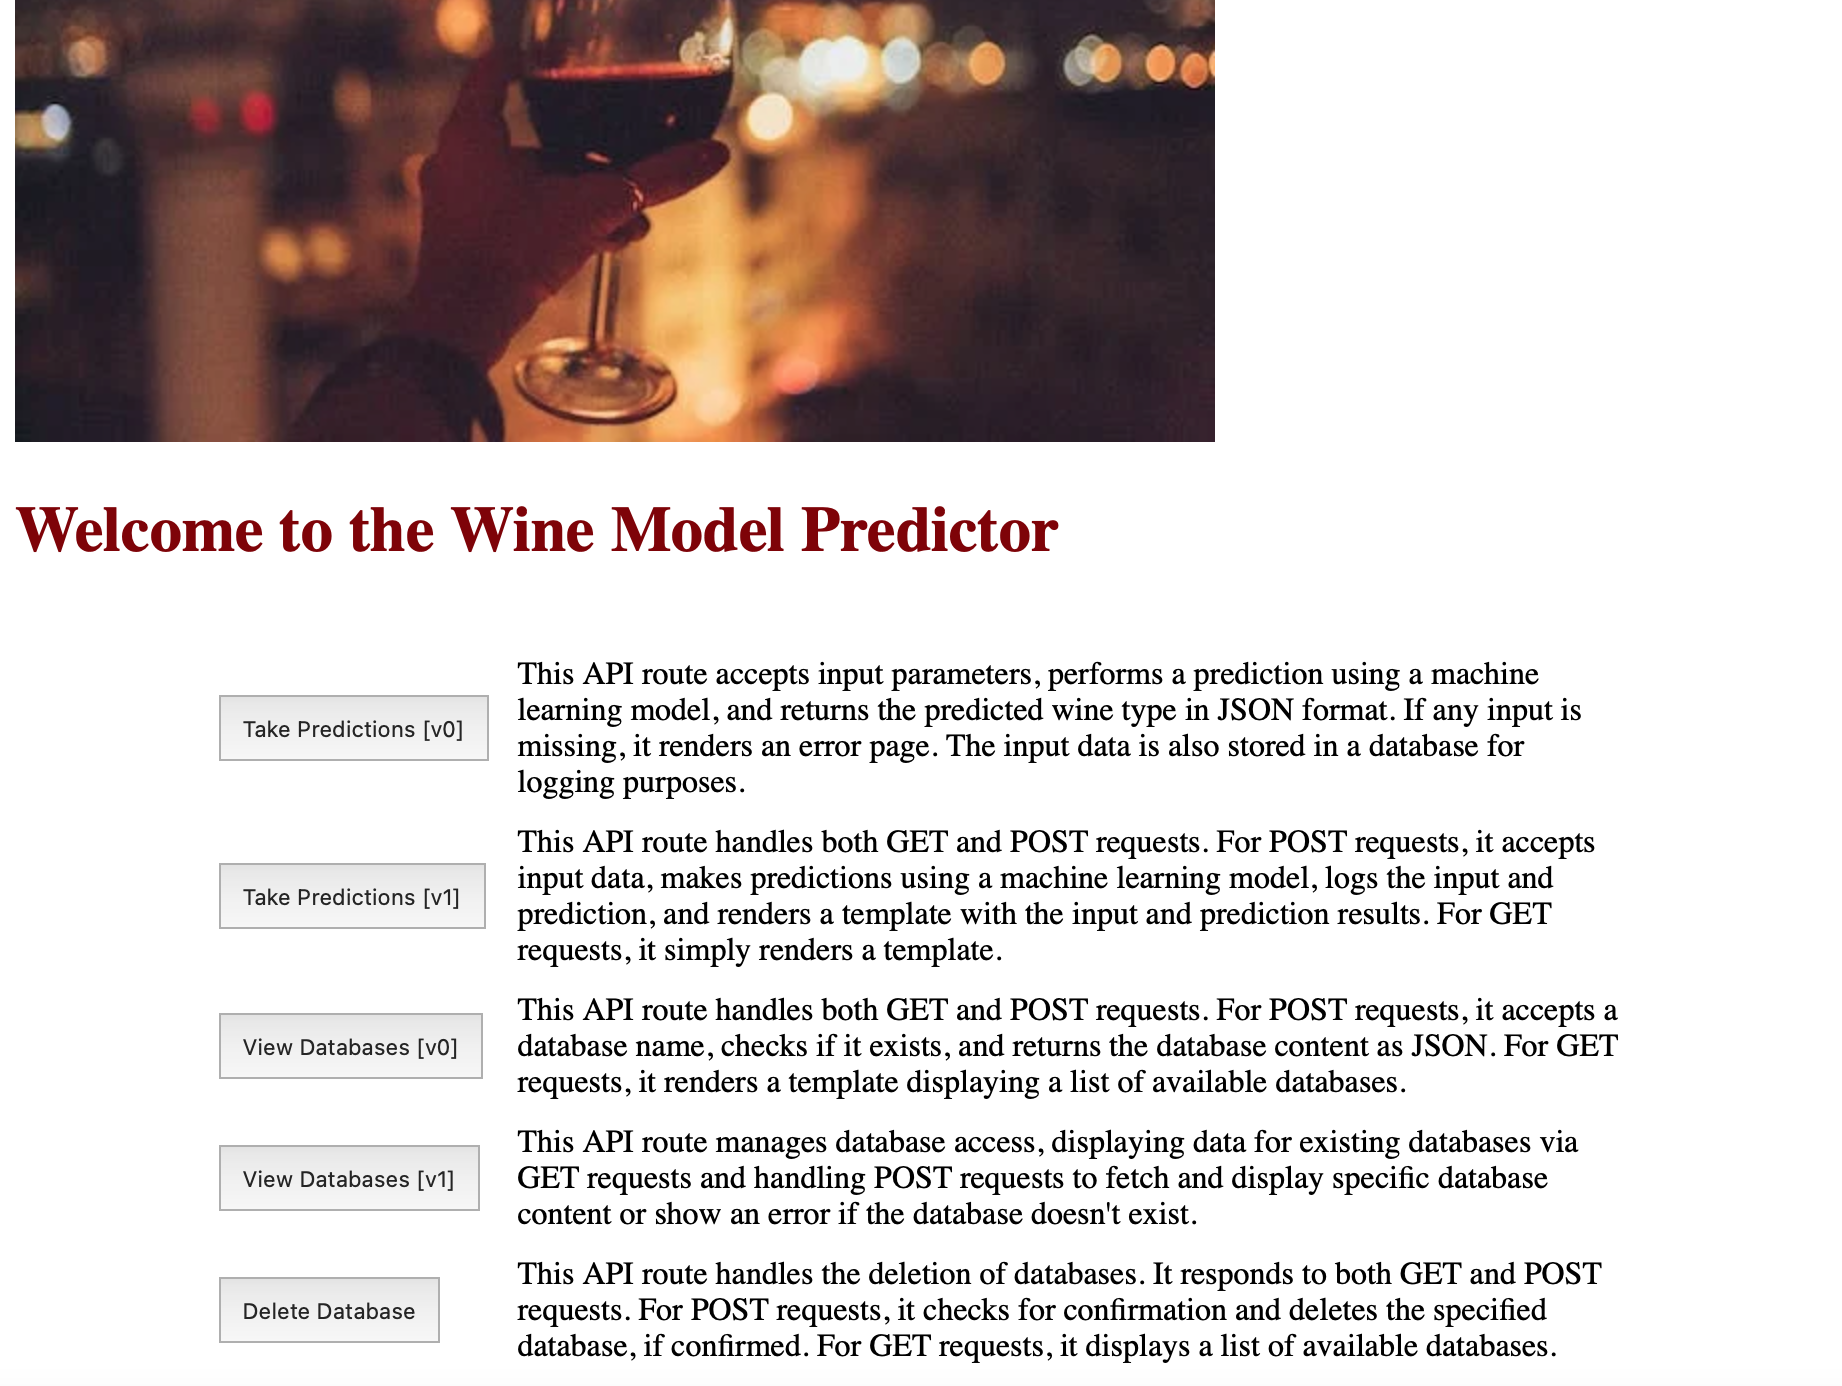
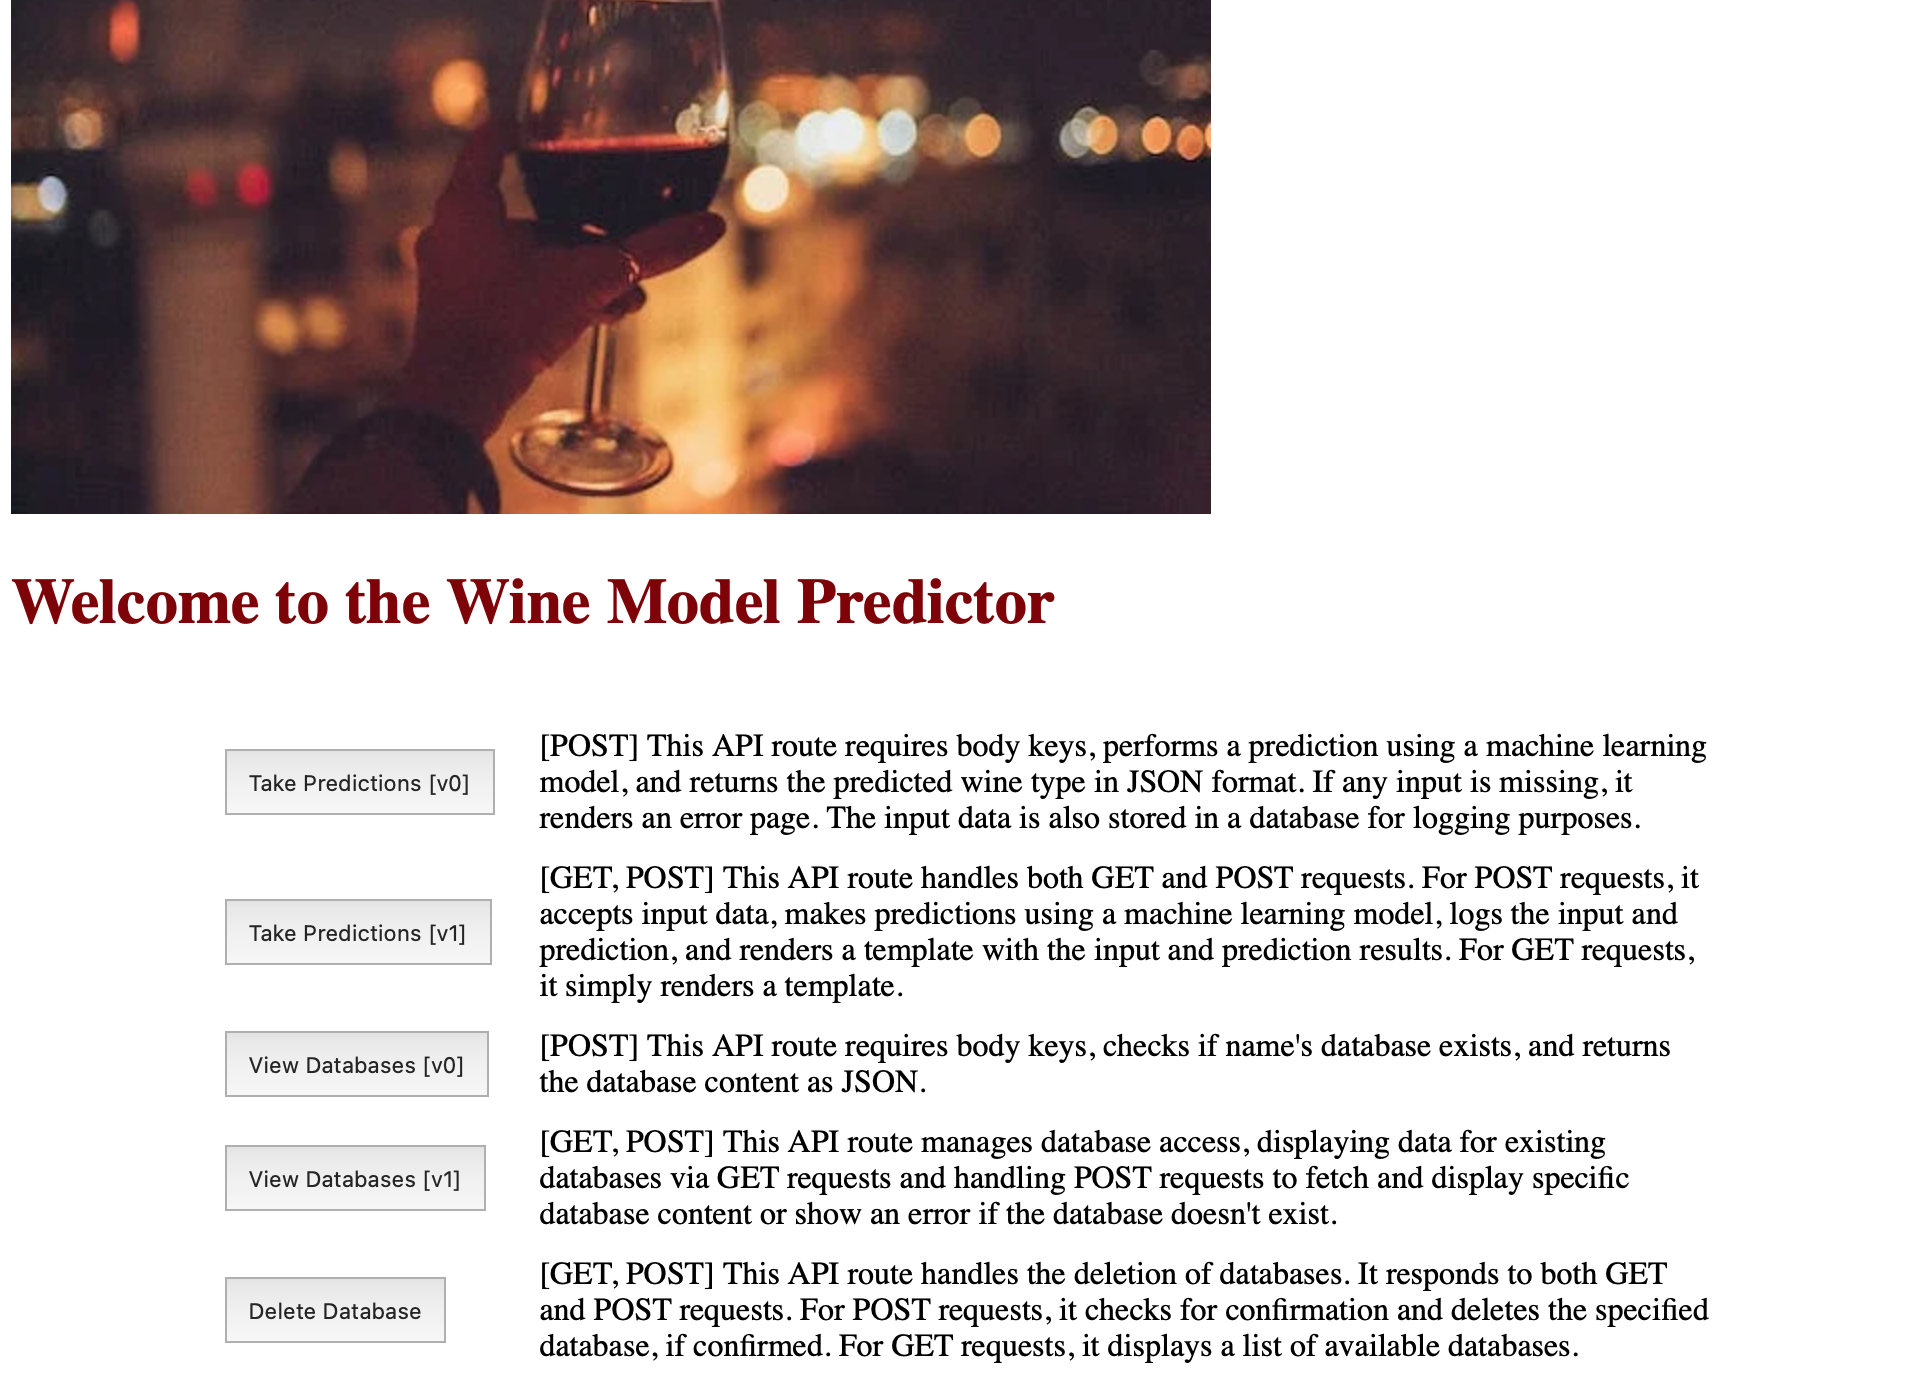
last fix

diff --git a/templates/index.html b/templates/index.html
@@ -22,7 +22,7 @@
         <td><a href="/api/v0/get_predict">
             <button style="padding: 10px; cursor: pointer;">Take Predictions [v0]</button>
             </a></td>
-        <td><label>This API route accepts input parameters, performs a prediction 
+        <td><label>[POST] This API route requires body keys, performs a prediction 
             using a machine learning model, and returns the predicted wine type 
             in JSON format. If any input is missing, it renders an error page. 
             The input data is also stored in a database for logging purposes.</label></td>
@@ -31,7 +31,7 @@
         <td><a href="/api/v1/get_predict">
             <button style="padding: 10px; cursor: pointer;">Take Predictions [v1]</button>
             </a></td>
-        <td><label>This API route handles both GET and POST requests. For POST requests, 
+        <td><label>[GET, POST] This API route handles both GET and POST requests. For POST requests, 
             it accepts input data, makes predictions using a machine learning model, logs 
             the input and prediction, and renders a template with the input and prediction 
             results. For GET requests, it simply renders a template.</label></td>
@@ -40,16 +40,14 @@
         <td><a href="/api/v0/get_database">
             <button style="padding: 10px; cursor: pointer;">View Databases [v0]</button>
             </a></td>
-        <td><label>This API route handles both GET and POST requests. For POST requests, 
-            it accepts a database name, checks if it exists, and returns the database content 
-            as JSON. For GET requests, it renders a template displaying a list of available 
-            databases.</label></td>
+        <td><label>[POST] This API route requires body keys, checks if name's database exists, 
+            and returns the database content as JSON.</label></td>
     </tr>
     <tr>
         <td><a href="/api/v1/get_database">
             <button style="padding: 10px; cursor: pointer;">View Databases [v1]</button>
             </a></td>
-        <td><label>This API route manages database access, displaying data for existing 
+        <td><label>[GET, POST] This API route manages database access, displaying data for existing 
             databases via GET requests and handling POST requests to fetch and display 
             specific database content or show an error if the database doesn't exist.</label></td>
     </tr>
@@ -57,7 +55,7 @@
         <td><a href="/api/v0/delete_database">
             <button style="padding: 10px; cursor: pointer;">Delete Database</button>
             </a></td>
-        <td><label>This API route handles the deletion of databases. It responds to both GET 
+        <td><label>[GET, POST] This API route handles the deletion of databases. It responds to both GET 
             and POST requests. For POST requests, it checks for confirmation and deletes the 
             specified database, if confirmed. For GET requests, it displays a list of 
             available databases.</label></td>

diff --git a/server.py b/server.py
@@ -44,17 +44,15 @@ def home():
     return render_template('index.html')
 
 
-@app.route('/api/v0/get_predict', methods=['GET'])
+@app.route('/api/v0/get_predict', methods=['POST'])
 def get_predict_v0():
-    alcohol = request.args.get('alcohol', None)
-    malic_acid = request.args.get('malic_acid', None)
-    ash = request.args.get('ash', None)
-    alcalinity_of_ash = request.args.get('alcalinity_of_ash', None)
+    data = request.get_json()
 
-    samples = [alcohol, malic_acid, ash, alcalinity_of_ash]
+    samples = [data['alcohol'], data['malic_acid'], data['ash'], data['alcalinity_of_ash']]
 
     if None in samples:
-        return render_template('error404.html')
+        response = f'Please, include the features in the request body with the this keys: "alcohol", "malic_acid", "ash" & "alcalinity_of_ash".'
+        return jsonify(response), 400
 
     array = np.array(samples).astype(float).reshape(1, -1)
     prediction = model.predict(array)
@@ -63,10 +61,12 @@ def get_predict_v0():
     df_samples['prediction'] = prediction
     df_samples.to_sql('samples', con=engine, if_exists='append', index=False)
 
-    response = '<div style="color:maroon"><u>Type Of Wine:</u></div><br>'
-    result = f'<div style="color:maroon;font-size:27">{target_dict[int(prediction)]}</div>'
+    dict_pred = {
+        'Inputs': samples,
+        'Prediction': target_dict[int(prediction)]
+    }
 
-    return response + result
+    return jsonify(dict_pred)
 
 
 @app.route('/api/v1/get_predict', methods=['GET', 'POST'])
@@ -92,18 +92,17 @@ def get_predict_v1():
     return render_template('predictions.html')
 
 
-@app.route('/api/v0/get_database', methods=['GET', 'POST'])
+@app.route('/api/v0/get_database', methods=['POST'])
 def get_database_v0():
-    if request.method == 'POST':
-        name_datab = request.form['datab']
+    datab = request.get_json()
+    name_datab = datab['datab']
 
-        if name_datab not in list_databases():
-            return render_template('error404.html')
+    if name_datab not in list_databases():
+        response = f'Please, include the database {list_databases()} in the request body with the "datab" key.'
+        return jsonify(response), 400
 
-        dict_datab = pd.read_sql_table(name_datab, con=engine).to_dict('records')
-        return jsonify(dict_datab)
-    
-    return render_template('database.html', list_databases=list_databases())
+    dict_datab = pd.read_sql_table(name_datab, con=engine).to_dict('records')
+    return jsonify(dict_datab)
 
 
 @app.route('/api/v1/get_database', methods=['GET', 'POST'])

diff --git a/README.md b/README.md
@@ -15,28 +15,28 @@ This application is an exercise to test the knowledge acquired in class.
 
 ## Home Page
 <div style="overflow: auto;">
-    <img align="right" width="300" src="repo_mayo_23 copia/4-Data_Engineering/1-APIs/API_weekend_homework/templates/img/HomePage.png" alt="Home Page" />
+    <img align="right" width="300" src="./templates/img/HomePage.png" alt="Home Page" />
     The homepage has an index with a short explanation of what each API does. The result is returned as JSON in version 0. Version 1 collects information via a form. The result is displayed in HTML.
 </div>
 
 
 ## Take Predictions
 <div style="overflow: auto;">
-    <img align="right" width="300" src="repo_mayo_23 copia/4-Data_Engineering/1-APIs/API_weekend_homework/templates/img/TakePredictions.png" alt="Take Predictions" />
+    <img align="right" width="300" src="./templates/img/TakePredictions.png" alt="Take Predictions" />
     Once the variables have been entered, they are passed to the trained model to make a prediction. Displays the result of the prediction and the inputs entered.
 </div>
 
 
 ## View Database
 <div style="overflow: auto;">
-    <img align="right" width="300" src="repo_mayo_23 copia/4-Data_Engineering/1-APIs/API_weekend_homework/templates/img/ViewDatabase.png" alt="View Database" />
+    <img align="right" width="300" src="./templates/img/ViewDatabase.png" alt="View Database" />
     It is necessary to specify the database to be viewed. This is returned as JSON or HTML depending on the version. The database containing the samples and their predictions can be deleted from the same page (v1).
 </div>
 
 
 ## Delete Database
 <div style="overflow: auto;">
-    <img align="right" width="300" src="repo_mayo_23 copia/4-Data_Engineering/1-APIs/API_weekend_homework/templates/img/DeleteDatabase.png" alt="Delete Database" />
+    <img align="right" width="300" src="./templates/img/DeleteDatabase.png" alt="Delete Database" />
     You must enter the database you wish to delete. The application will ask for confirmation before deleting (version 1 only).
 </div>
 
